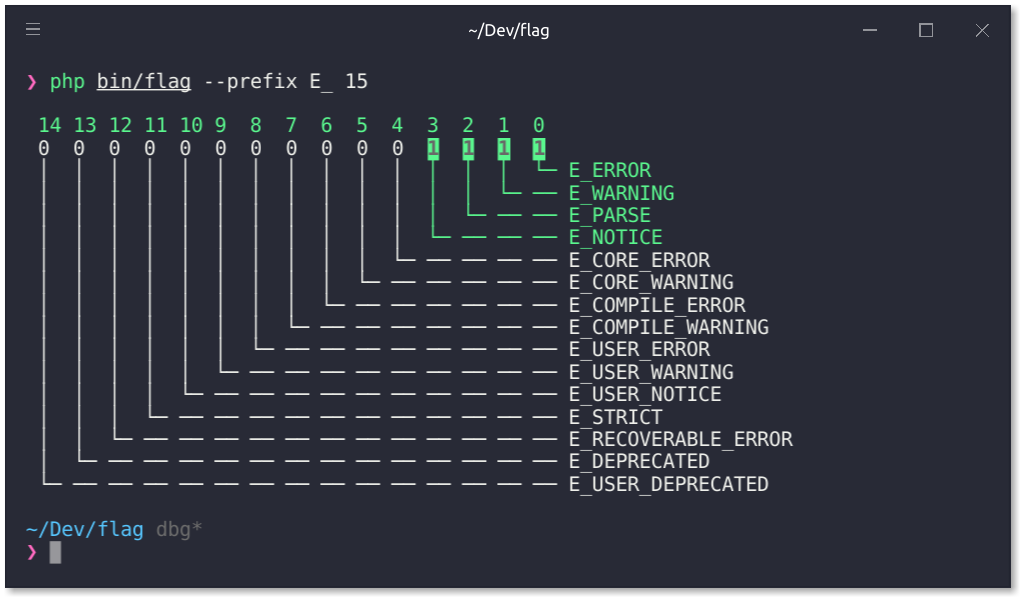
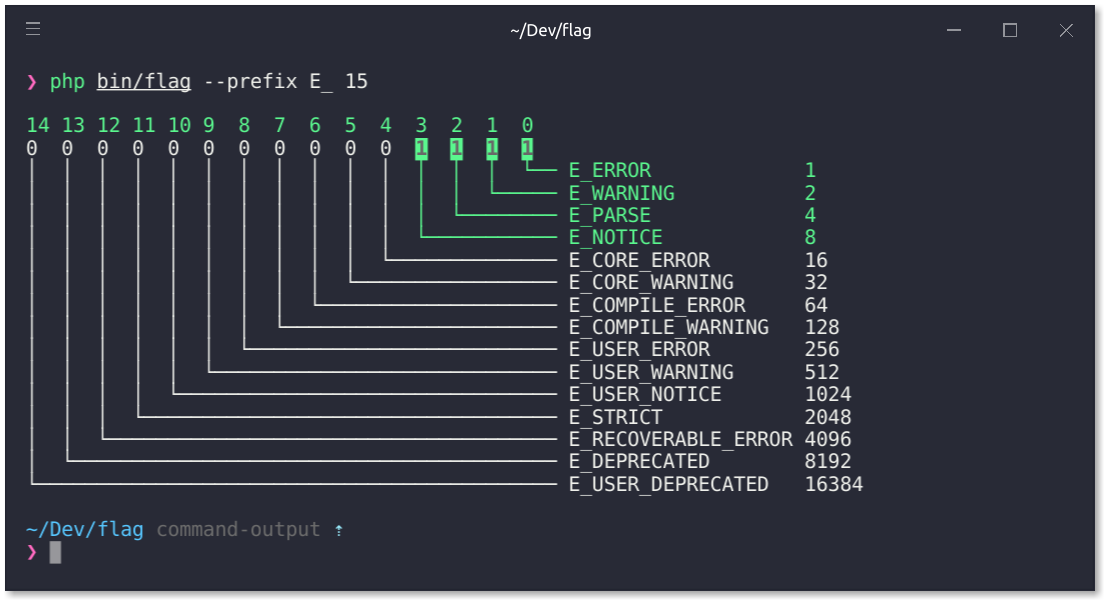
Improve output of debug command (#2)

diff --git a/src/Flag/Command/DebugCommand.php b/src/Flag/Command/DebugCommand.php
@@ -78,36 +78,43 @@ EOF
 
         $i = -1;
         foreach ($flags as $x => $flag) {
-            $this->legend($this->max - $x, ++$i, $flag, $flagged[$x]);
+            $this->legend($this->max - $x, ++$i, $flag, $from, $flagged[$x]);
         }
 
         $rows = $this->legends;
         array_unshift($rows, $bitfield);
 
-        $table = new Table($output);
-        $table->setColumnWidths(array_fill(0, count($headers), 2));
-        $table->setHeaders($headers);
-        $table->setRows($rows);
-        $table->setStyle('compact');
+        $table = (new Table($output))
+            ->setColumnWidths(array_fill(0, count($headers), 3))
+            ->setHeaders($headers)
+            ->setRows($rows)
+            ->setStyle('compact')
+        ;
+
+        $table->getStyle()
+            ->setVerticalBorderChar('')
+            ->setCrossingChar('')
+        ;
 
         $output->writeln('');
         $table->render();
     }
 
-    private function legend($x, $y, $name, $highlight = false)
+    private function legend($x, $y, $name, $from, $highlight = false)
     {
         $format = $highlight ? '<info>%s</info>' : '%s';
 
         while (!isset($this->legends[$y])) {
-            $this->legends[] = array_fill(0, $this->max + 1, '');
+            $this->legends[] = array_fill(0, $this->max + 2, '');
         }
 
-        $this->legends[$y][$x] = sprintf($format, '└─');
-        $this->legends[$y][$this->max + 1] = sprintf($format, $name);
+        $this->legends[$y][$x] = sprintf($format, '└──');
+        $this->legends[$y][$this->max + 1] = sprintf($format, ' '.$name);
+        $this->legends[$y][$this->max + 2] = sprintf($format, ' '.constant($from ? $from.'::'.$name : $name));
 
         // h
         for ($i = $x + 1; $i <= $this->max; ++$i) {
-            $this->legends[$y][$i] = sprintf($format, '──');
+            $this->legends[$y][$i] = sprintf($format, '───');
         }
 
         // v
